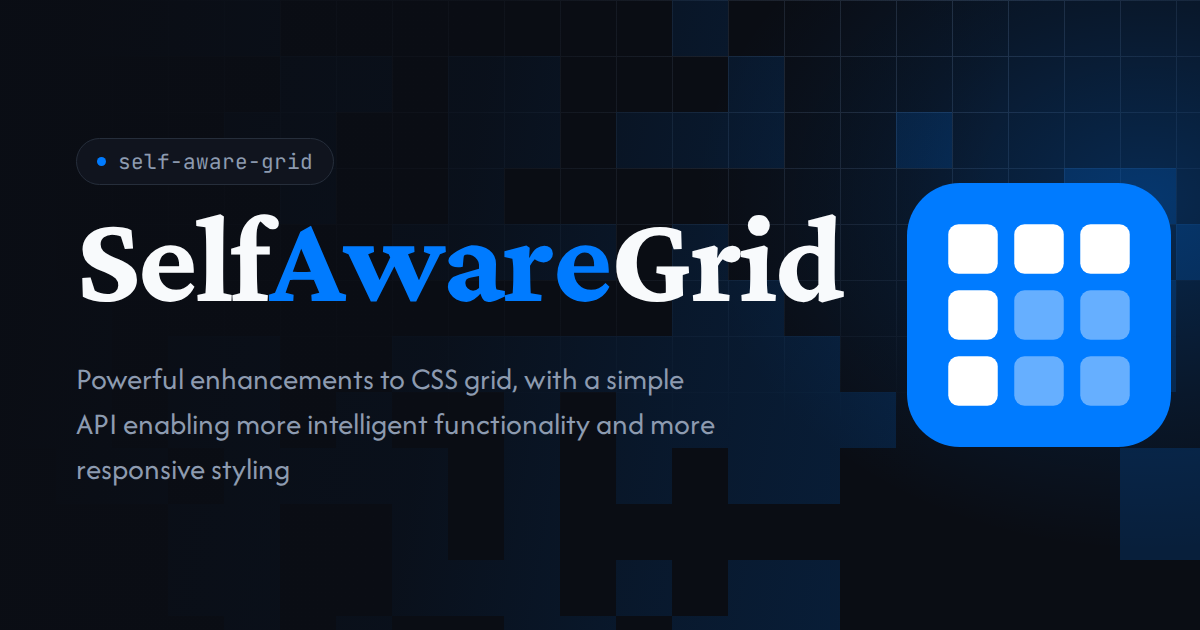
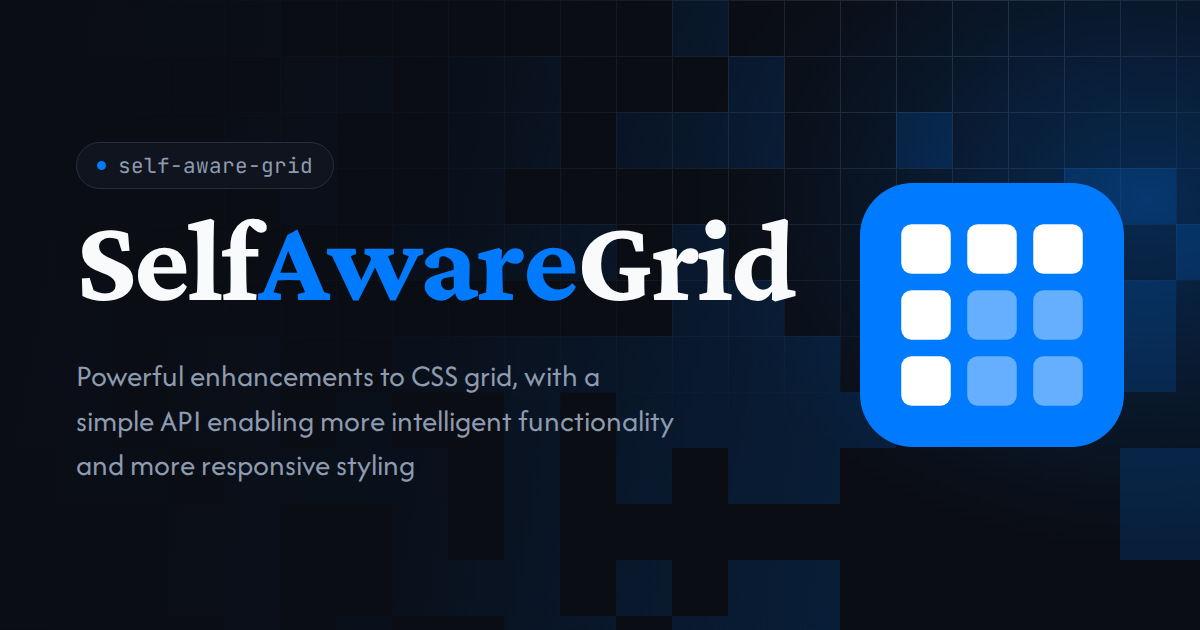
Even out the share card's side padding
The card had 76px on the left and 29px on the right. The row inside the
padding measured 1095 against the 1048 available — headline 767, gap 64,
mark 264 — and `justify-content: space-between` pushes an overflowing row
past the right edge rather than clipping it, so the mark sat 47px further
right than the padding called for.

Nothing needed to shrink much. Dropping the headline from 112px to 105px
and the paragraph's measure from 640px to 600px brings the row to 1039,
which fits with room to spare, so the mark keeps its full 264px and lands
flush with the right padding.

`copy` also gets `min-width: 0` so it absorbs any future overflow by
shrinking instead of displacing the mark, which is what made this fail
quietly in the first place.

The glider still sits above "Grid": its position is measured from the
word rather than hard-coded, so it followed the narrower headline on its
own.

Measured on the rendered card: 76px each side, row no longer overflowing,
and the isolated canonical glider found at row 0, columns 11-13.

Claude-Session: https://claude.ai/code/session_01VPtjxVaKFZMZ2yKXYVrPDq

diff --git a/tools/social-preview.html b/tools/social-preview.html
@@ -90,15 +90,24 @@
         );
       }
 
+      /*
+       * The row has to fit inside its own padding, or `space-between` pushes the overflow past the right
+       * edge and the two margins stop matching — which is what a 112px headline did, leaving 76px on the
+       * left and 29px on the right. At 105px the row measures 1039 against the 1048 available, so the mark
+       * keeps its full size and lands flush with the right padding. `copy` may shrink, so the mark's
+       * position never depends on how wide the headline happens to measure.
+       */
       .content {
         position: relative;
         height: 100%;
         display: flex;
         align-items: center;
         justify-content: space-between;
-        gap: 64px;
+        gap: 56px;
         padding: 0 76px;
       }
+
+      .copy { min-width: 0; }
 
       .tag {
         display: inline-flex;
@@ -125,7 +134,8 @@
         margin-top: 30px;
         font-family: var(--font-display);
         font-weight: 400;
-        font-size: 112px;
+        font-size: 105px;
+        white-space: nowrap;
         line-height: 1;
         letter-spacing: -0.02em;
       }
@@ -134,13 +144,13 @@
 
       p {
         margin-top: 30px;
-        max-width: 640px;
+        max-width: 600px;
         font-size: 31px;
         line-height: 1.45;
         color: var(--ink-muted);
       }
 
-      .mark { flex-shrink: 0; width: 264px; height: 264px; }
+      .mark { flex: 0 0 264px; width: 264px; height: 264px; }
     </style>
   </head>
   <body>
@@ -151,7 +161,7 @@
       <div class="scrim"></div>
 
       <div class="content">
-        <div>
+        <div class="copy">
           <span class="tag">self-aware-grid</span>
 
           <h1>Self<span class="aware">Aware</span>Grid</h1>
